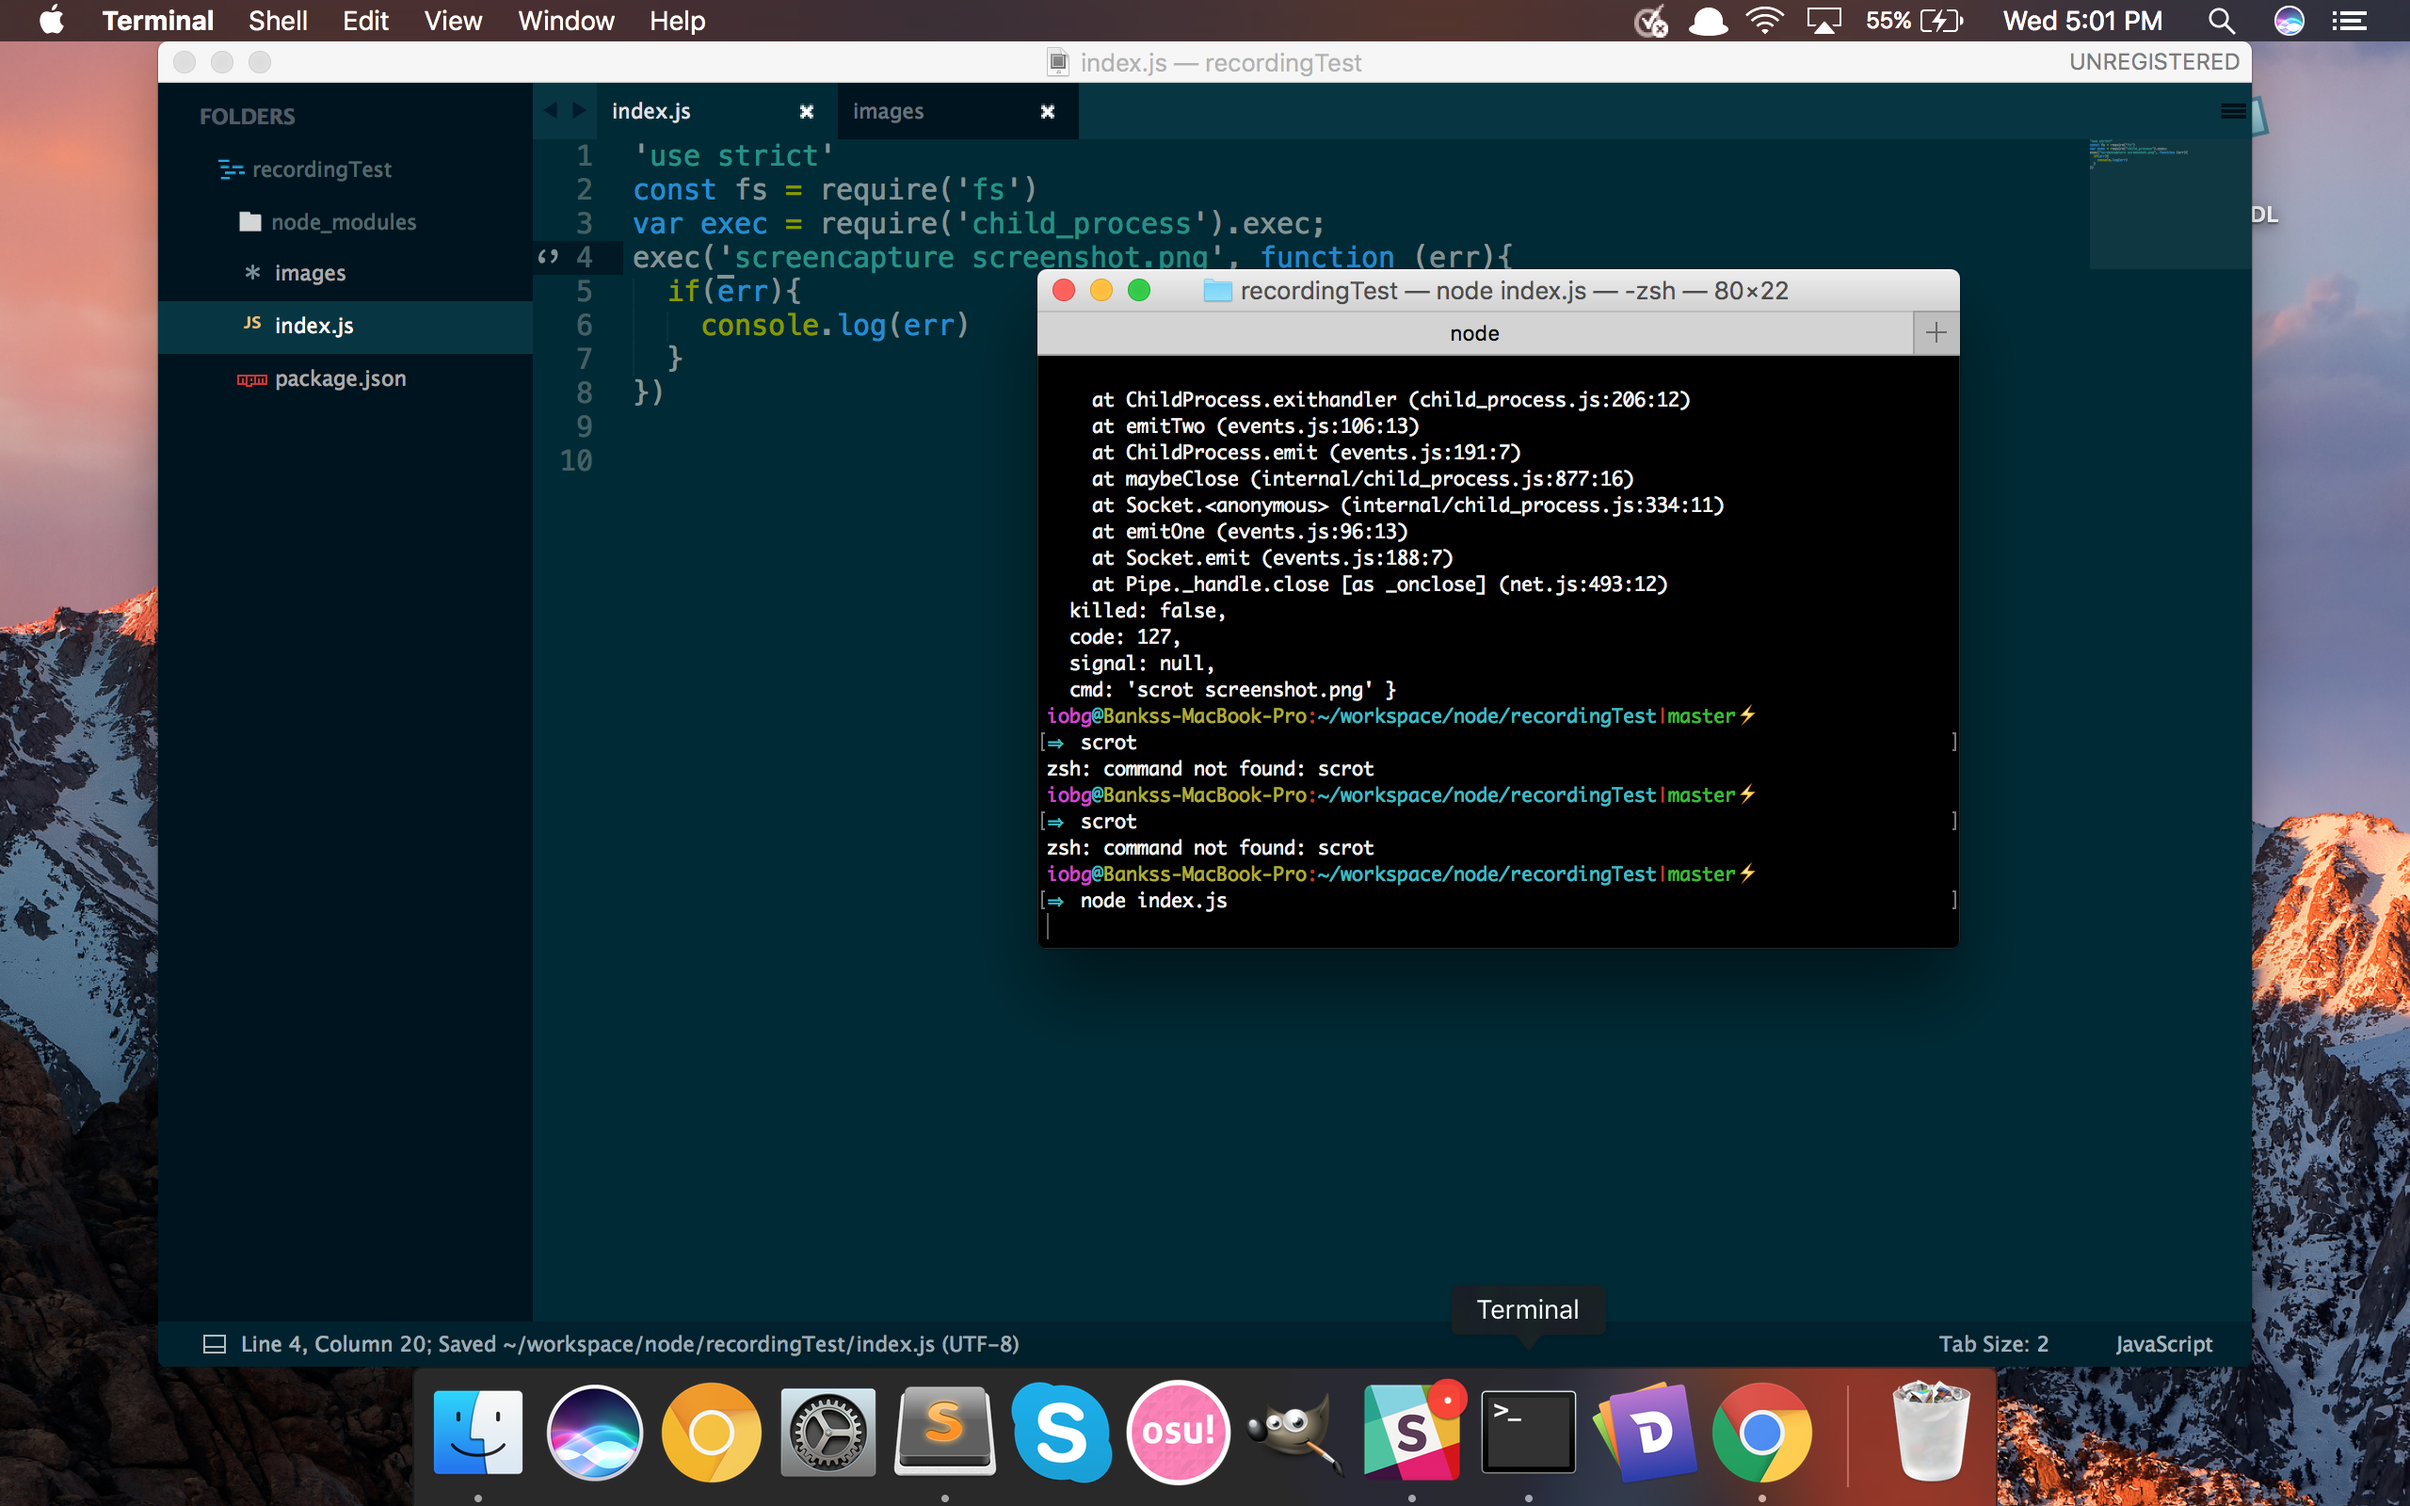
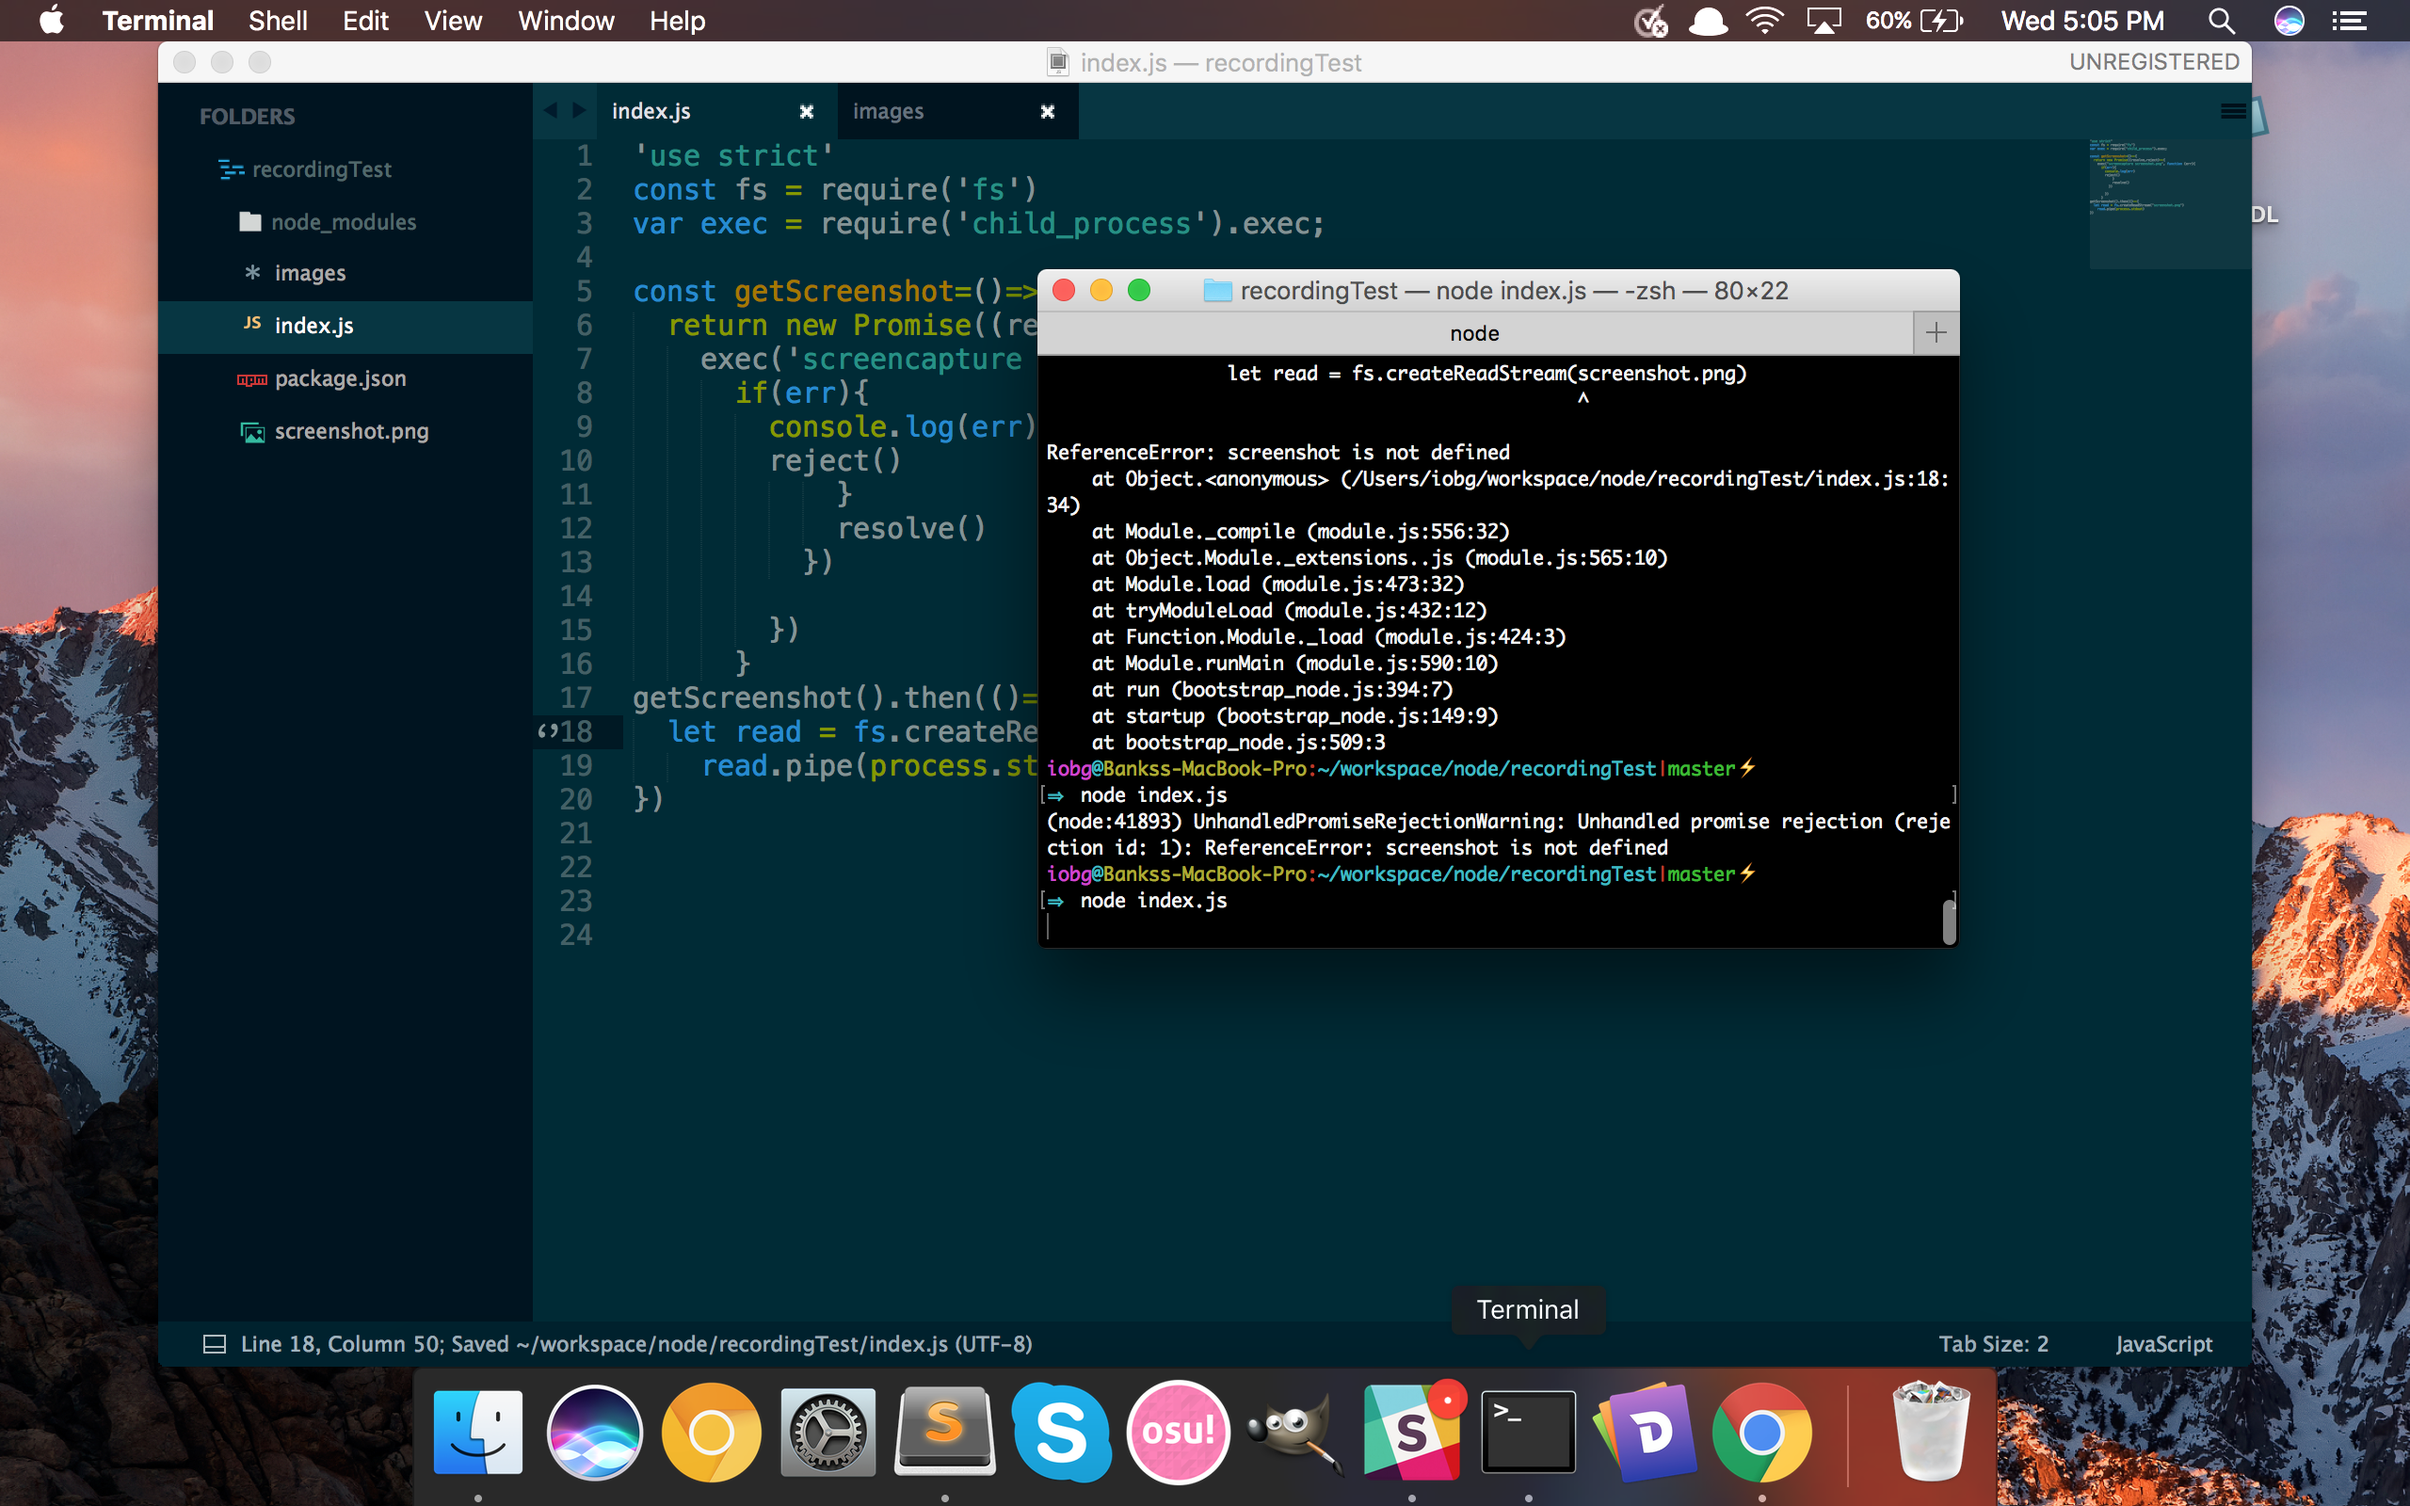
taking screenshots and piping them immediately afterwards with a promise

diff --git a/index.js b/index.js
@@ -1,9 +1,24 @@
 'use strict'
 const fs = require('fs')
 var exec = require('child_process').exec;
-exec('screencapture screenshot.png', function (err){
-	if(err){
-		console.log(err)
-	}
+
+const getScreenshot=()=>{
+	return new Promise((resolve,reject)=>{
+		exec('screencapture screenshot.png', function (err){
+			if(err){
+				console.log(err)
+				reject()
+						}
+						resolve()
+					})
+
+				})
+			}
+			
+getScreenshot().then(()=>{
+	let read = fs.createReadStream('screenshot.png')
+		read.pipe(process.stdout)
 })
-	
+		
+
+
